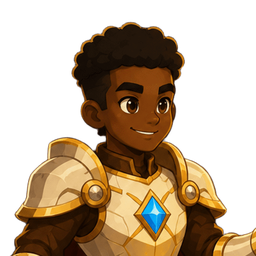
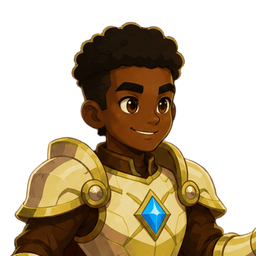
fix(mobile): rostos dos guardioes regerados da arte com as cores novas
Os recortes vinham de `microservice/src/assets/guardioes/`, que ficou 2 dias
atras da arte atual (2026-07-25 contra 2026-07-27). Na versao antiga o
Sobrevivente era VERMELHO, escudo vermelho e tudo; na nova ele e cinza-chumbo
com escudo prateado -- que e a cor-assinatura dele (#4e5a66) e o que aparece na
referencia dos 7 guardioes. Resultado: o aluno via o Kenji errado no chat.

Confirmado por comparacao, nao por suposicao: os 9 recortes anteriores eram
byte-identicos a uma regeracao da pasta do microservice, e 6 deles mudam quando
a origem passa a ser a pasta do mobile (daredevil e o par do Socializador sao
iguais nas duas, entao nao mudaram).

O comentario em profileImages.ts dizia que a fonte da verdade e o microservice,
e seguir isso reintroduz o bug -- corrigido junto com o cabecalho do script.
A distincao que faltava: o microservice e fonte da verdade das CONSTANTES
(cor-assinatura, nome do guia), nao dos arquivos de imagem.

DIVERGENCIA AINDA ABERTA, fora do alcance deste commit: o microservice usa a
propria copia para compor slides/apresentacoes, entao o material GERADO continua
com o Sobrevivente vermelho ate os arquivos novos serem propagados para
`microservice/src/assets/guardioes/`. Tentei copiar e a operacao foi bloqueada
aqui; fica registrado para decisao.

diff --git a/mobile/src/constants/profileImages.ts b/mobile/src/constants/profileImages.ts
@@ -156,11 +156,23 @@ export const pickBySeed = <T>(
 /**
  * Rosto do guardião de cada perfil.
  *
- * A arte oficial vive em `microservice/src/assets/guardioes/` (fonte da verdade
- * dos perfis, junto com cor-assinatura e nome do guia) e é de **corpo inteiro**.
- * O que está aqui são recortes de rosto gerados a partir dela: todos os slots
- * que mostram o guia no app são avatares — o maior tem 72pt —, e uma figura de
- * corpo inteiro nesse tamanho vira um pontinho irreconhecível.
+ * A arte de **corpo inteiro** fica em `mobile/src/assets/guardioes/`, e o que
+ * está aqui são recortes de rosto gerados a partir dela por
+ * `scripts/gerar-rostos-guardioes.py`: todos os slots que mostram o guia no app
+ * são avatares — o maior tem 72pt —, e uma figura de corpo inteiro nesse tamanho
+ * vira um pontinho irreconhecível.
+ *
+ * ATENÇÃO à pasta de origem. `microservice/src/assets/guardioes/` também tem a
+ * arte e o CLAUDE.md a trata como fonte da verdade dos perfis — mas isso vale
+ * para as CONSTANTES (cor-assinatura, nome do guia), não para os arquivos de
+ * imagem: a cópia de lá ficou 2 dias atrás (2026-07-25 contra 2026-07-27) numa
+ * versão anterior da arte, em que o Sobrevivente era vermelho em vez do
+ * cinza-chumbo da cor-assinatura dele. Recortes gerados de lá saíram com as
+ * cores erradas (corrigido em 2026-08-26).
+ *
+ * Divergência ainda aberta: o microservice usa a própria cópia para compor
+ * slides/apresentações, então o material gerado continua com a arte antiga até
+ * alguém propagar os arquivos novos para lá.
  *
  * O Socializador usa o par (Mateo e Zuri): é o único perfil com dois guardiões,
  * e é o que faz o áudio dele ser diálogo em vez de narração solo. Mostrar só um

diff --git a/mobile/scripts/gerar-rostos-guardioes.py b/mobile/scripts/gerar-rostos-guardioes.py
@@ -1,11 +1,18 @@
 """Recorta o rosto de cada guardiao a partir da arte de corpo inteiro.
 
-Uso:
-    python mobile/scripts/gerar-rostos-guardioes.py         microservice/src/assets/guardioes         mobile/src/assets/guardioes/rosto
+Uso (rodando de dentro de mobile/):
+    python scripts/gerar-rostos-guardioes.py         src/assets/guardioes         src/assets/guardioes/rosto
 
-Rode isto quando a arte oficial dos guardioes mudar. A fonte da verdade e
-`microservice/src/assets/guardioes/` -- os recortes sao derivados, nunca
+Rode isto quando a arte dos guardioes mudar. Os recortes sao derivados, nunca
 editados a mao (edicao manual dessincroniza sem deixar rastro).
+
+ORIGEM: use `mobile/src/assets/guardioes/`, NAO a copia do microservice.
+Ela existe e o CLAUDE.md trata o microservice como fonte da verdade dos perfis,
+mas isso vale para as CONSTANTES (cor-assinatura, nome do guia), nao para os
+arquivos de imagem -- a copia de la ficou numa versao anterior da arte
+(2026-07-25 contra 2026-07-27), em que o Sobrevivente era vermelho em vez do
+cinza-chumbo da cor-assinatura dele. Gerar de la produz rostos com as cores
+erradas; foi o que aconteceu, e o aluno viu o guia errado no chat.
 
 Nao usa fracao fixa da imagem: a composicao varia (o Realizador tem um braco
 estendido, o que desloca o centro do bounding box). O alpha resolve isso -- as
